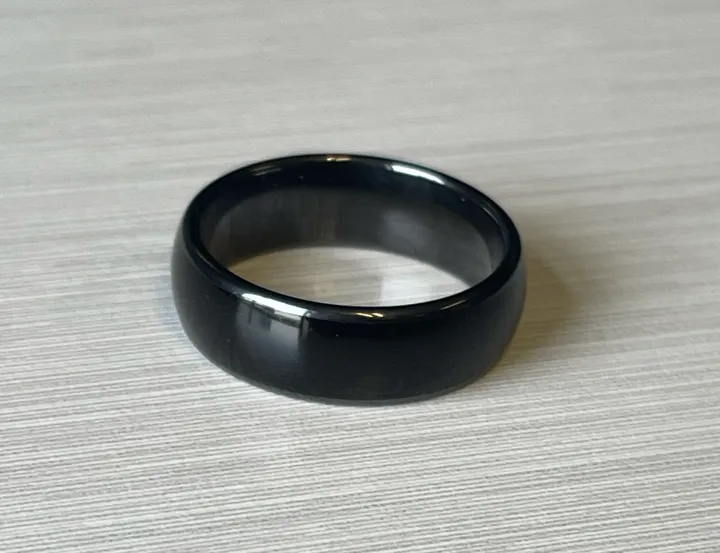
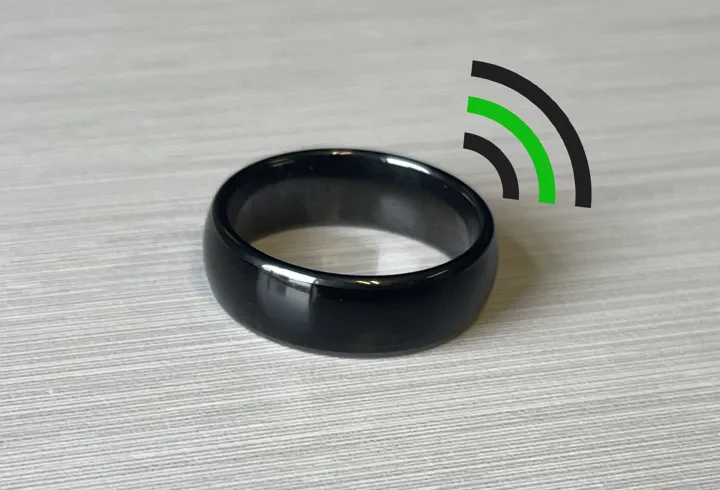
updating images

Changed region(s): [[0.0, 0.1224, 1.0, 1.0], [0.0611, 0.5204, 0.1222, 0.551]]

diff --git a/layouts/pages/rfid-rings.html b/layouts/pages/rfid-rings.html
@@ -22,6 +22,12 @@
           <li><strong>Stylish and Sustainable:</strong> Our eco-friendly ceramic RFID finger rings are not only practical but also elegantly designed. Show off your commitment to the environment without compromising style.</li>
           <li><strong>Versatile Access Solution:</strong> Suitable for gyms, offices, swimming clubs, and locker rooms, these rings are the ultimate access solution. Just check with your provider to ensure compatibility with alternative keys before purchasing.</li>
         </ul>
+        <h2>Requirements:</h2>
+        <ul>
+          <li><strong>Frequency:</strong> These rings operate at 13.56MHz and use Mifare RFID technology. </li>
+          <li><strong>Compatibility:</strong> These rings work on any reader with Mifare RFID capability, but it often requires the RFID key being logged into the system for the access provider - e.g., the access control, security system, etc. </li>
+          <li><strong>Verification:</strong> We do not guarantee that these rings will work for your specific situation, so please verify that they will work with your access provider before purchasing.</li>
+        </ul>
 
         <h2>Use Cases:</h2>
         <ul>
@@ -31,13 +37,7 @@
             <li><strong>Office:</strong> No more fumbling for your access card or key. With an Ecofobs ceramic RFID finger ring, you have easy and quick access to your office building.</li>
         </ul>
         <a href="https://buy.stripe.com/4gw5no5MVg4c2WY5kl" class="btn btn-primary">Buy Now</a>
-
-          <h2>Requirements:</h2>
-          <ul>
-            <li><strong>Frequency:</strong> These rings operate at 13.56MHz and use Mifare RFID technology. </li>
-            <li><strong>Compatibility:</strong> These rings work on any reader with Mifare RFID capability, but it often requires the RFID key being logged into the system for the access provider - e.g., the access control, security system, etc. </li>
-            <li><strong>Verification:</strong> We do not guarantee that these rings will work for your specific situation, so please verify that they will work with your access provider before purchasing.</li>
-          </ul>
+        
           <h2>What Our Customers Are Saying:</h2>
           <div class="review">
             <blockquote>"Since I started using my Ecofobs ceramic RFID finger ring, I never have to worry about forgetting my gym key again. It's stylish, convenient, and what more could I ask for?" - Jenna H., Gym Enthusiast</blockquote>
@@ -45,14 +45,23 @@
           <div class="review">
             <blockquote>"As someone who frequents the swimming club, having a ceramic RFID finger ring has been a game-changer. It's comfortable, eco-friendly, and it always stays securely on my finger. Highly recommend it!" - Mark S., Swimming Club Member</blockquote>
           </div>
+
           <div>
             <h2>Don't Wait - Upgrade to a Ceramic RFID Finger Ring Today!</h2>
             <p>Embrace a more convenient, stylish, and eco-friendly way to access your favorite spaces. Purchase your own ceramic RFID finger ring now and join the growing community of satisfied Ecofobs customers. You deserve a hassle-free lifestyle - get your ring today!</p>
             <a href="https://buy.stripe.com/4gw5no5MVg4c2WY5kl" class="btn btn-primary">Buy Now</a>
           </div>
         </div>
+        
       </div>
     </div>
+    <div style="padding:10px;">
+    <h2>Bulk Order Pricing:</h2>
+    <p>Special pricing is available for gym owners, swim club owners, office managers, and other B2B buyers interested in purchasing Ecofobs ceramic RFID finger rings in bulk. Contact us to learn more and to place your order.</p>
+    <a href="/contact-us" class="btn btn-secondary" style="margin-bottom:20px;">Contact Us</a>
+
+        </div>
+    
     <script>
         const images = document.querySelectorAll('.product-images img');
         const activeImage = document.querySelector('.product-images img.active');
